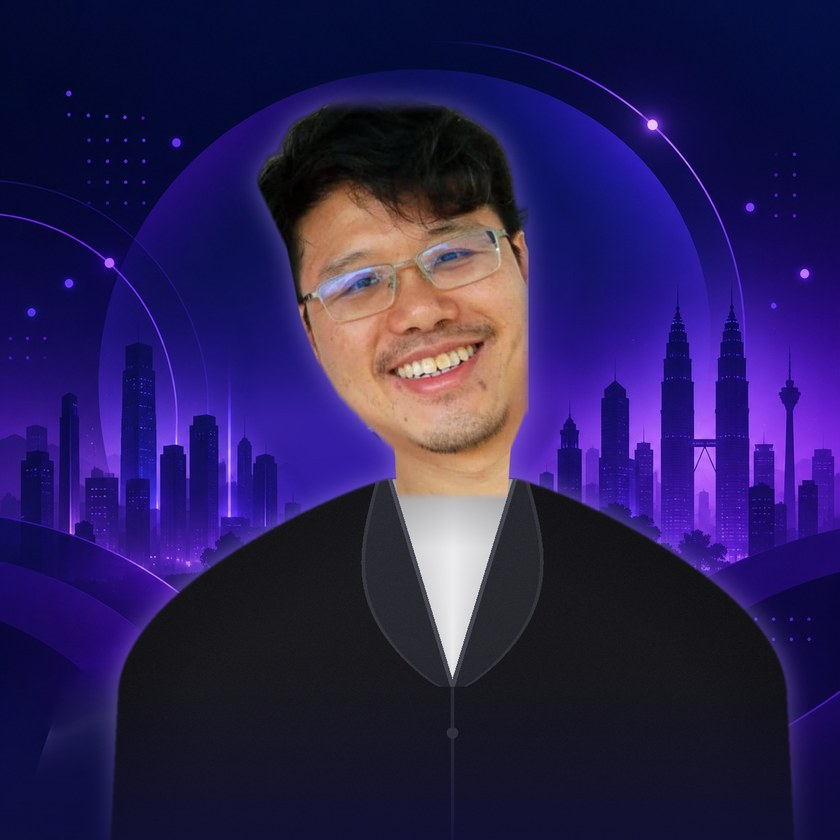
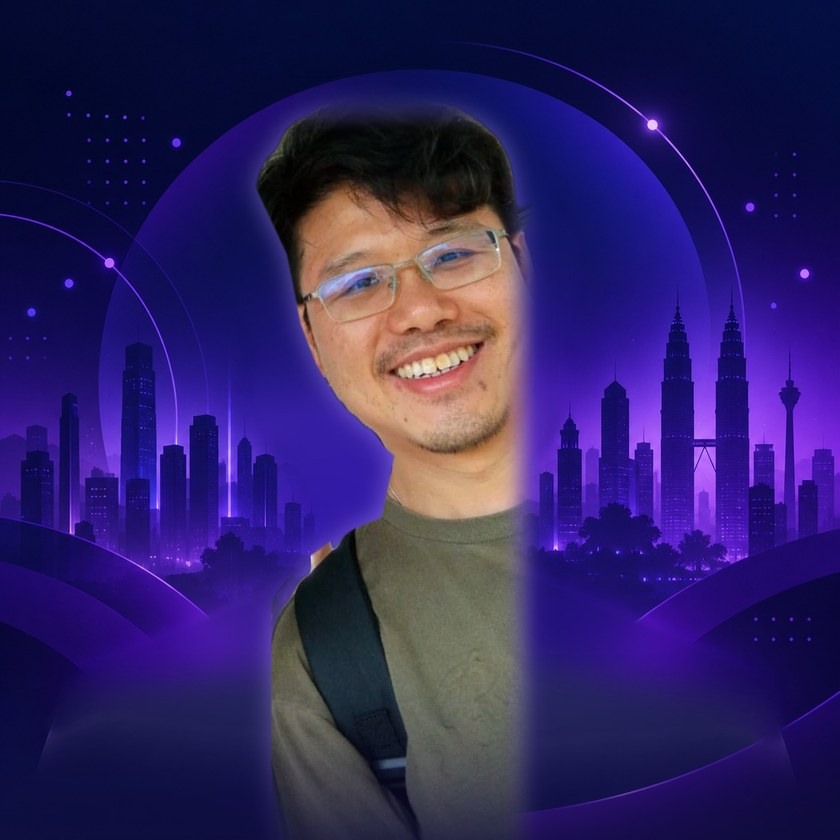
Use Ruben Chong's own photo and add Muhammad Fikhri
Ruben's tile goes back to his own photo, trimmed to leave out the
background. Muhammad Fikhri joins the volunteers. make_tile.py drops
the drawn jacket and gains --edge (side fade width) and --band
(stretch only the bottom of a photo, or with 0 fade it out softly).

diff --git a/tools/volunteer-tiles/make_tile.py b/tools/volunteer-tiles/make_tile.py
@@ -28,9 +28,12 @@ still looks best.
            stretching shows skin or a collar, as with a round avatar.
   --cutout the photo is already a cut-out (a PNG with a transparent background),
            for example one trimmed by hand to the head and neck; skip cutting out.
-  --jacket draw a formal black jacket with a white shirt and lapels behind the
-           person, fitted to where their neck ends. Use with --cutout and a cut-out
-           of the head and neck only.
+  --edge   how far a side cut by the photo's edge fades out, in face heights
+           (default 0.25). Use less (0.12) when the edge runs close to the face.
+  --band   stretch only this much of the bottom of the photo, in face heights,
+           for example 0.15 to keep an open collar's neck from being stretched.
+           --band 0 stretches nothing: the photo's lower edge fades out softly
+           (place the person low with --zoom and --lower so it ends near the bottom).
   --model  the cut-out model (default isnet-general-use). Use u2net_human_seg when
            clothing or a headscarf is close in colour to the background and the
            default keeps only the face.
@@ -75,7 +78,7 @@ def touches(edge):
     return (edge > 128).mean() > 0.02
 
 
-def extend_body(cut, ox, oy, W, H, face_px, chin):
+def extend_body(cut, ox, oy, W, H, face_px, chin, edge=0.25, band_fh=None):
     """Keep a person cut off at the chest from floating: stretch the lowest part of
     their clothes (below the chin, folds and outline included) down to the bottom
     of the tile. Sides cut by the photo's edge are softened instead."""
@@ -83,9 +86,19 @@ def extend_body(cut, ox, oy, W, H, face_px, chin):
     al = a[..., 3]
     ch, cw = al.shape
 
-    if oy + ch < H and touches(al[-1, :]):
+    if oy + ch < H and touches(al[-1, :]) and band_fh == 0:
+        # --band 0: no stretching; the lower edge of the photo fades out softly.
+        yy = np.arange(ch, dtype=np.float32)[:, None]
+        t = np.clip((ch - 1 - yy) / (0.2 * face_px), 0, 1)
+        cut.putalpha(Image.fromarray((al * (t * t * (3 - 2 * t))).astype(np.uint8)))
+        a = np.array(cut).astype(np.float32)
+        al = a[..., 3]
+    elif oy + ch < H and touches(al[-1, :]):
         gap = H - (oy + ch) + 8
-        band = int(max(2, min(ch - max(chin, 0), max(0.15 * face_px, gap / 3))))
+        if band_fh:
+            band = int(max(2, min(ch - 2, band_fh * face_px)))
+        else:
+            band = int(max(2, min(ch - max(chin, 0), max(0.15 * face_px, gap / 3))))
         top = Image.fromarray(a[: ch - band].astype(np.uint8), "RGBA")
         low = Image.fromarray(a[ch - band :].astype(np.uint8), "RGBA").resize((cw, band + gap), Image.BICUBIC)
         out = Image.new("RGBA", (cw, ch + gap), (0, 0, 0, 0))
@@ -97,7 +110,7 @@ def extend_body(cut, ox, oy, W, H, face_px, chin):
         ch, cw = al.shape
 
     # A side cut by the photo's edge, or the top, fades out instead of ending in a hard line.
-    ramp = 0.25 * face_px
+    ramp = edge * face_px
     yy = np.arange(ch, dtype=np.float32)[:, None]
     xx = np.arange(cw, dtype=np.float32)[None, :]
 
@@ -168,89 +181,6 @@ def drawn_body(cut, oy, W, H, chin, face_px):
     return Image.fromarray(np.dstack([np.clip(rgb, 0, 255), alpha]).astype(np.uint8), "RGBA")
 
 
-def soften_sides(cut, ox, oy, W, H, ramp):
-    """Fade the person out towards a side (or the top) of the photo that cuts through
-    them, when that side falls inside the tile."""
-    al = np.array(cut.split()[3]).astype(np.float32)
-    ch, cw = al.shape
-    yy = np.arange(ch, dtype=np.float32)[:, None]
-    xx = np.arange(cw, dtype=np.float32)[None, :]
-
-    def smooth(t):
-        t = np.clip(t, 0, 1)
-        return t * t * (3 - 2 * t)
-
-    fade = np.ones_like(al)
-    if ox > 0 and touches(al[:, 0]):
-        fade = np.minimum(fade, smooth(xx / ramp))
-    if ox + cw < W and touches(al[:, -1]):
-        fade = np.minimum(fade, smooth((cw - 1 - xx) / ramp))
-    if oy > 0 and touches(al[0, :]):
-        fade = np.minimum(fade, smooth(yy / ramp))
-    cut.putalpha(Image.fromarray((al * fade).astype(np.uint8)))
-    return cut
-
-
-def jacket_body(cut, ox, oy, W, H, face_px):
-    """A formal black jacket drawn to the person's own proportions, behind them:
-    the collar hugs the neck where the cut-out ends, the shoulders slope out, and a
-    white shirt shows in a narrow V between two dark lapels."""
-    import cv2
-
-    F = face_px
-    al = np.array(cut.split()[3]).astype(np.float32)
-    rows = np.where((al > 128).any(axis=1))[0]
-    nb = int(rows.max()) if len(rows) else al.shape[0] - 1        # neck base, cut-out rows
-    probe = al[max(0, int(nb - 0.12 * F))]
-    xs = np.where(probe > 128)[0]
-    if len(xs):
-        cx, nw = ox + (xs.min() + xs.max()) / 2, float(xs.max() - xs.min())
-    else:
-        cx, nw = ox + al.shape[1] / 2, 0.5 * F
-    y0 = oy + nb - 0.1 * F                                          # collar overlaps the neck
-
-    Y, X = np.mgrid[0:H, 0:W].astype(np.float32)
-    t = np.clip((Y - y0) / (0.95 * F), 0, 1)
-    half = 0.55 * nw + (1.45 * F - 0.55 * nw) * np.sin(t * np.pi / 2) ** 0.8 + 0.05 * np.clip(Y - y0 - 0.95 * F, 0, None)
-    d = np.abs(X - cx)
-    body = (Y >= y0) & (d <= half)
-
-    inside = body.astype(np.uint8)
-    dist = cv2.distanceTransform(inside, cv2.DIST_L2, 5)
-    shade = 0.8 + 0.2 * np.clip(dist / (0.35 * F), 0, 1)
-    rgb = np.zeros((H, W, 3), np.float32)
-    rgb[:] = np.array([24, 24, 28], np.float32)
-    rgb *= shade[..., None]
-
-    # White shirt in a narrow V, and a lapel either side of it.
-    yb = y0 + 0.9 * F
-    frac = np.clip((yb - Y) / (yb - y0), 0, 1)
-    vhalf = 0.55 * nw * frac
-    inv = (Y >= y0) & (Y <= yb)
-    shirt = inv & (d < vhalf)
-    lw = (0.05 + 0.2 * np.sin(np.pi * frac ** 0.8)) * F            # widest at mid-chest
-    lapel = inv & (d >= vhalf) & (d < vhalf + lw) & body
-    tone = 236 - 26 * np.clip(d / np.maximum(vhalf, 1), 0, 1)
-    under_chin = 0.72 + 0.28 * np.clip((Y - y0) / (0.3 * F), 0, 1)       # shadow below the chin
-    rgb[shirt] = (np.stack([tone, tone, tone + 3], -1) * under_chin[..., None])[shirt]
-    rgb[lapel] = (38, 38, 45)
-    rgb[inv & (np.abs(d - vhalf) < 0.01 * F)] = (70, 70, 82)
-    outer = inv & body & (np.abs(d - vhalf - lw) < 0.008 * F)
-    rgb[outer] = (52, 52, 60)
-    # The jacket's front edges meet below the V, with one button.
-    rgb[(Y > yb) & body & (np.abs(X - cx) < 0.006 * F)] = (46, 46, 54)
-    rgb[(X - cx) ** 2 + (Y - yb - 0.2 * F) ** 2 < (0.025 * F) ** 2] = (58, 58, 66)
-
-    # A little light from the upper left and a fine fabric grain, so it is not flat.
-    light = 1.0 + 0.1 * np.clip(1 - (X - (cx - 0.6 * F)) ** 2 / (1.2 * F) ** 2 - (Y - y0) / (2.5 * F), 0, 1)
-    grain = np.random.default_rng(7).normal(0, 2.2, (H, W)).astype(np.float32)
-    jacket = body & ~shirt
-    rgb[jacket] = rgb[jacket] * light[jacket][:, None] + grain[jacket][:, None]
-
-    alpha = cv2.GaussianBlur(body.astype(np.float32) * 255, (0, 0), 1.5)
-    return Image.fromarray(np.dstack([np.clip(rgb, 0, 255), alpha]).astype(np.uint8), "RGBA")
-
-
 def fade_bottom_edge(cut, face_px):
     """With a drawn body behind, let the lower edge of the photo (wherever it was cut)
     melt into it instead of showing a line."""
@@ -280,7 +210,8 @@ def main():
     ap.add_argument("--body", action="store_true")
     ap.add_argument("--model", default="isnet-general-use")
     ap.add_argument("--cutout", action="store_true")
-    ap.add_argument("--jacket", action="store_true")
+    ap.add_argument("--edge", type=float, default=0.25)
+    ap.add_argument("--band", type=float, default=None)
     args = ap.parse_args()
 
     photo = ImageOps.exif_transpose(Image.open(args.photo)).convert("RGBA" if args.cutout else "RGB")
@@ -316,15 +247,11 @@ def main():
 
     chin = (fy + 0.6 * fh) * k
     body = None
-    if args.jacket:
-        body = jacket_body(cut, ox, oy, W, H, fh * k)
-        cut = soften_sides(cut, ox, oy, W, H, 0.1 * fh * k)
-        cut = fade_bottom_edge(cut, fh * k)
-    elif args.body:
+    if args.body:
         body = drawn_body(cut, oy, W, H, chin, fh * k)
         cut = fade_bottom_edge(cut, fh * k)
     else:
-        cut, ox, oy = extend_body(cut, ox, oy, W, H, fh * k, chin)
+        cut, ox, oy = extend_body(cut, ox, oy, W, H, fh * k, chin, args.edge, args.band)
 
     # Natural colour, a little brighter and livelier so the person stands out on the dark blue.
     alpha = cut.split()[3]

diff --git a/tools/volunteer-tiles/README.md b/tools/volunteer-tiles/README.md
@@ -11,9 +11,10 @@ python3 tools/volunteer-tiles/make_tile.py photo.jpg src/assets/volunteers/jane-
 python3 tools/volunteer-tiles/make_tile.py wide-photo.jpg src/assets/volunteers/jane-tan.jpg --crop 1200,600,3000,2700
 python3 tools/volunteer-tiles/make_tile.py chest-up-photo.jpg src/assets/volunteers/jane-tan.jpg --zoom 1.5 --lower 0.05
 python3 tools/volunteer-tiles/make_tile.py round-avatar.jpg src/assets/volunteers/jane-tan.jpg --circle --body --zoom 1.4
-python3 tools/volunteer-tiles/make_tile.py head-and-neck.png src/assets/volunteers/jane-tan.jpg --cutout --jacket --face 215,320,300
+python3 tools/volunteer-tiles/make_tile.py passport-photo.jpg src/assets/volunteers/jane-tan.jpg --zoom 1.6 --lower 0.09 --band 0
+python3 tools/volunteer-tiles/make_tile.py trimmed-cutout.png src/assets/volunteers/jane-tan.jpg --cutout --face 215,320,300 --edge 0.18
 ```
 
-Use `--crop` when the photo is wide or has other people in it, and `--face` when the face is not found by itself. A photo cut off at the chest has its clothes stretched down to the bottom of the tile so the person does not float; add `--zoom 1.5 --lower 0.05` for such a photo so less has to be stretched. A side cut by the photo edge is faded out. For a round avatar, `--circle` ignores everything outside the circle, and `--body` draws shoulders and a body behind the person in the colour of their clothes instead of stretching; this works best with dark, plain clothes. The face finder sometimes takes in hair or a headscarf and makes a person too small: compare each new tile with the others and use `--zoom` to match. If the cut-out keeps only the face (clothing or a headscarf close in colour to the background), add `--model u2net_human_seg`. `--body` suits dark plain clothes; with light clothes it looks like a flat block, so stretch instead. To show someone in a formal black jacket, trim their photo by hand to the head and neck (a PNG with a transparent background, ending at the base of the neck), then use `--cutout --jacket`: the jacket, white shirt and lapels are drawn to fit where the neck ends. Pass `--face` when the face is not found, for example with a tilted head. A real photo in a jacket looks more natural than a drawn one. A photo showing the shoulders and some of the body looks best. Check each tile by eye before publishing.
+Use `--crop` when the photo is wide or has other people in it, and `--face` when the face is not found by itself. A photo cut off at the chest has its clothes stretched down to the bottom of the tile so the person does not float; add `--zoom 1.5 --lower 0.05` for such a photo so less has to be stretched. A side cut by the photo edge is faded out. For a round avatar, `--circle` ignores everything outside the circle, and `--body` draws shoulders and a body behind the person in the colour of their clothes instead of stretching; this works best with dark, plain clothes. The face finder sometimes takes in hair or a headscarf and makes a person too small: compare each new tile with the others and use `--zoom` to match. If the cut-out keeps only the face (clothing or a headscarf close in colour to the background), add `--model u2net_human_seg`. `--body` suits dark plain clothes; with light clothes it looks like a flat block, so stretch instead. For a passport-style photo that stops at the upper chest with an open collar, stretching drags the neck down: use `--band 0` (no stretching, the lower edge fades softly) with `--zoom` and `--lower` so the photo ends near the bottom. When the cut-out keeps background clutter, trim it by hand to a PNG with a transparent background and pass it with `--cutout` (and `--face` if the face is not found, for example with a tilted head). `--edge` sets how wide a side cut by the photo's edge fades; use less than the default 0.25 when the edge runs close to the face. Do not draw clothes or bodies for light clothing or to change what someone wears: it looks fake. Use the person's own photo. A photo showing the shoulders and some of the body looks best. Check each tile by eye before publishing.
 
 These files are not part of the website build.

diff --git a/src/pages/events/community-day-2026.md b/src/pages/events/community-day-2026.md
@@ -160,6 +160,8 @@ volunteers:
     photo: "lavanesswary"
   - name: "Edelyn Seah"
     photo: "edelyn-seah"
+  - name: "Muhammad Fikhri"
+    photo: "muhammad-fikhri"
 
 venueNote: "The building and room will be confirmed closer to the event."
 gettingThere:
